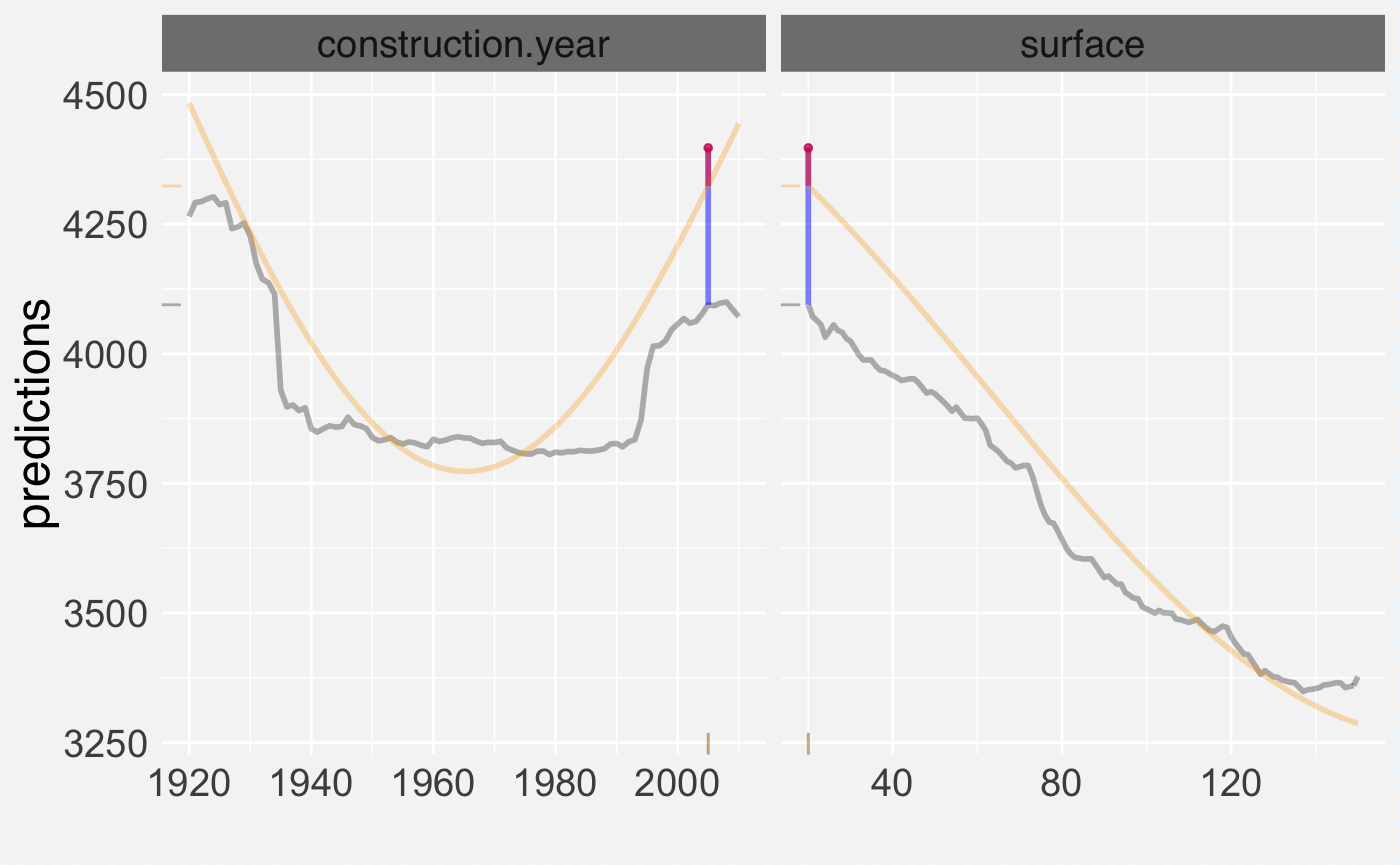
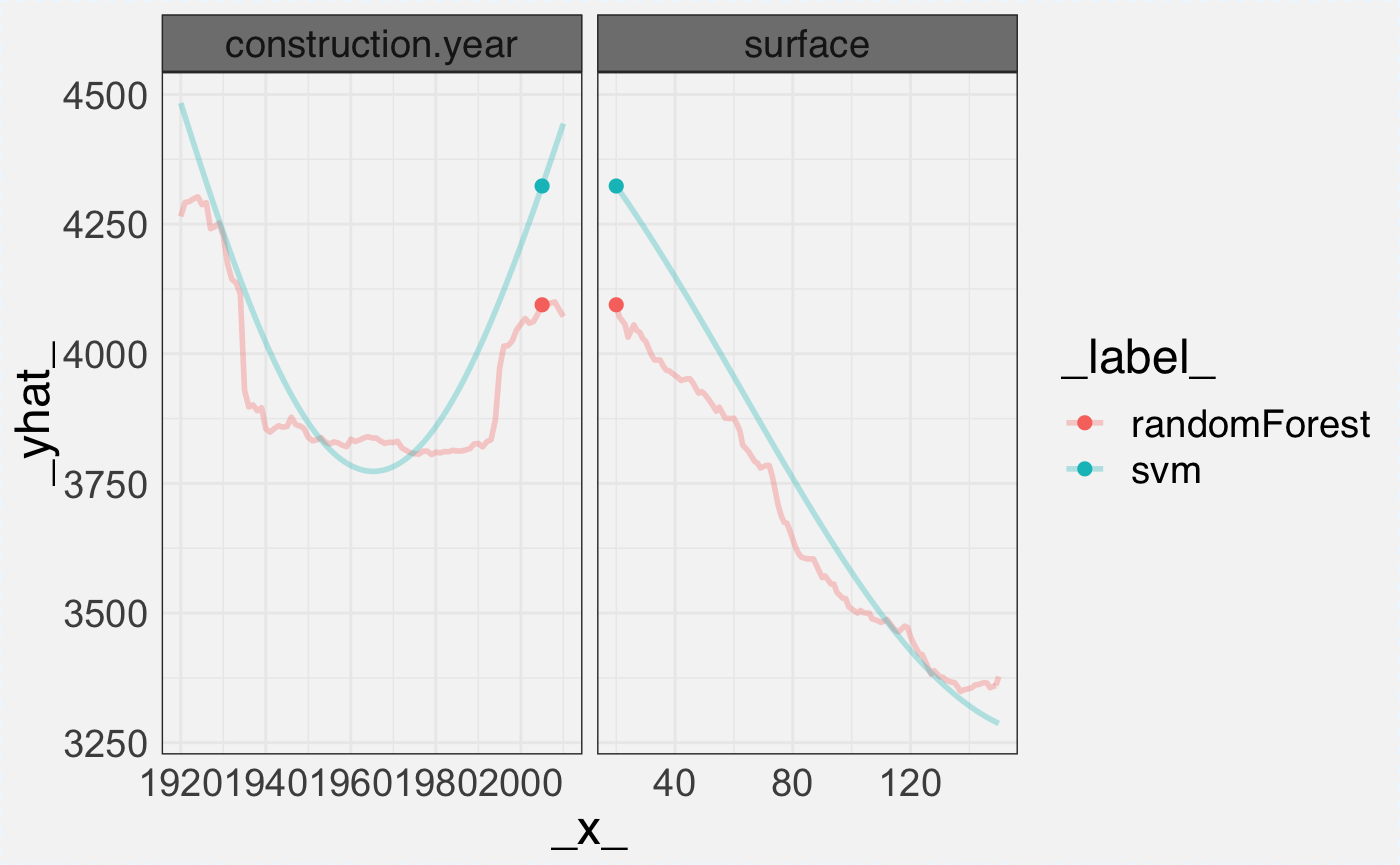
more examples

diff --git a/docs/articles/ceteris_paribus.html b/docs/articles/ceteris_paribus.html
@@ -76,7 +76,7 @@
       <h1>Ceteris Paribus Plots</h1>
                         <h4 class="author">Przemyslaw Biecek</h4>
             
-            <h4 class="date">2018-07-27</h4>
+            <h4 class="date">2018-07-30</h4>
       
       
       <div class="hidden name"><code>ceteris_paribus.Rmd</code></div>
@@ -191,7 +191,7 @@
 <a class="sourceLine" id="cb13-4" data-line-number="4">     <span class="dt">show_observations =</span> <span class="ot">FALSE</span>, <span class="dt">show_rugs =</span> <span class="ot">TRUE</span>,</a>
 <a class="sourceLine" id="cb13-5" data-line-number="5">     <span class="dt">show_residuals =</span> <span class="ot">TRUE</span>, <span class="dt">color_residuals =</span> <span class="st">"red"</span>, <span class="dt">size_residuals =</span> <span class="dv">2</span>,</a>
 <a class="sourceLine" id="cb13-6" data-line-number="6">     <span class="dt">selected_variables =</span> <span class="kw">c</span>(<span class="st">"surface"</span>,<span class="st">"construction.year"</span>)) <span class="op">+</span></a>
-<a class="sourceLine" id="cb13-7" data-line-number="7"><span class="st">  </span><span class="kw">ceteris_paribus_layer</span>(cp_rf_C, </a>
+<a class="sourceLine" id="cb13-7" data-line-number="7"><span class="st">  </span><span class="kw"><a href="../reference/ceteris_paribus_layer.html">ceteris_paribus_layer</a></span>(cp_rf_C, </a>
 <a class="sourceLine" id="cb13-8" data-line-number="8">            <span class="dt">show_observations =</span> <span class="ot">FALSE</span>, <span class="dt">show_rugs =</span> <span class="ot">FALSE</span>,</a>
 <a class="sourceLine" id="cb13-9" data-line-number="9">            <span class="dt">aggregate_profiles =</span> mean, <span class="dt">size =</span> <span class="dv">2</span>, <span class="dt">alpha =</span> <span class="dv">1</span>,</a>
 <a class="sourceLine" id="cb13-10" data-line-number="10">            <span class="dt">selected_variables =</span> <span class="kw">c</span>(<span class="st">"surface"</span>,<span class="st">"construction.year"</span>)) </a></code></pre></div>
@@ -204,7 +204,7 @@
 <a class="sourceLine" id="cb14-5" data-line-number="5">     <span class="dt">show_observations =</span> <span class="ot">FALSE</span>, <span class="dt">show_residuals =</span> <span class="ot">TRUE</span>, </a>
 <a class="sourceLine" id="cb14-6" data-line-number="6">     <span class="dt">color_residuals =</span> <span class="st">"blue"</span>,</a>
 <a class="sourceLine" id="cb14-7" data-line-number="7">     <span class="dt">selected_variables =</span> <span class="kw">c</span>(<span class="st">"surface"</span>,<span class="st">"construction.year"</span>)) <span class="op">+</span></a>
-<a class="sourceLine" id="cb14-8" data-line-number="8"><span class="st">  </span><span class="kw">ceteris_paribus_layer</span>(cp_rf_D, </a>
+<a class="sourceLine" id="cb14-8" data-line-number="8"><span class="st">  </span><span class="kw"><a href="../reference/ceteris_paribus_layer.html">ceteris_paribus_layer</a></span>(cp_rf_D, </a>
 <a class="sourceLine" id="cb14-9" data-line-number="9">          <span class="dt">show_observations =</span> <span class="ot">FALSE</span>, <span class="dt">show_residuals =</span> <span class="ot">TRUE</span>, </a>
 <a class="sourceLine" id="cb14-10" data-line-number="10">          <span class="dt">color =</span> <span class="st">"orange"</span>, <span class="dt">color_residuals =</span> <span class="st">"red"</span>,</a>
 <a class="sourceLine" id="cb14-11" data-line-number="11">          <span class="dt">selected_variables =</span> <span class="kw">c</span>(<span class="st">"surface"</span>,<span class="st">"construction.year"</span>)) </a></code></pre></div>
@@ -224,11 +224,16 @@
 <a class="sourceLine" id="cb15-12" data-line-number="12">     <span class="dt">show_observations =</span> <span class="ot">FALSE</span>, <span class="dt">show_rugs =</span> <span class="ot">TRUE</span>, <span class="dt">show_residuals =</span> <span class="ot">TRUE</span>, </a>
 <a class="sourceLine" id="cb15-13" data-line-number="13">     <span class="dt">color_residuals =</span> <span class="st">"blue"</span>,</a>
 <a class="sourceLine" id="cb15-14" data-line-number="14">     <span class="dt">selected_variables =</span> <span class="kw">c</span>(<span class="st">"surface"</span>,<span class="st">"construction.year"</span>)) <span class="op">+</span></a>
-<a class="sourceLine" id="cb15-15" data-line-number="15"><span class="st">  </span><span class="kw">ceteris_paribus_layer</span>(cp_rf_E, </a>
+<a class="sourceLine" id="cb15-15" data-line-number="15"><span class="st">  </span><span class="kw"><a href="../reference/ceteris_paribus_layer.html">ceteris_paribus_layer</a></span>(cp_rf_E, </a>
 <a class="sourceLine" id="cb15-16" data-line-number="16">          <span class="dt">show_observations =</span> <span class="ot">FALSE</span>, <span class="dt">show_rugs =</span> <span class="ot">TRUE</span>, <span class="dt">show_residuals =</span> <span class="ot">TRUE</span>, </a>
 <a class="sourceLine" id="cb15-17" data-line-number="17">          <span class="dt">color =</span> <span class="st">"orange"</span>, <span class="dt">color_residuals =</span> <span class="st">"red"</span>,</a>
 <a class="sourceLine" id="cb15-18" data-line-number="18">          <span class="dt">selected_variables =</span> <span class="kw">c</span>(<span class="st">"surface"</span>,<span class="st">"construction.year"</span>))</a></code></pre></div>
 <p><img src="ceteris_paribus_files/figure-html/unnamed-chunk-15-1.png" width="700"></p>
+<p>Both models in a single layer</p>
+<div class="sourceCode" id="cb16"><pre class="sourceCode r"><code class="sourceCode r"><a class="sourceLine" id="cb16-1" data-line-number="1"><span class="kw">plot</span>(cp_rf_A, cp_rf_E, </a>
+<a class="sourceLine" id="cb16-2" data-line-number="2">     <span class="dt">color =</span> <span class="st">"_label_"</span>, </a>
+<a class="sourceLine" id="cb16-3" data-line-number="3">    <span class="dt">selected_variables =</span> <span class="kw">c</span>(<span class="st">"surface"</span>,<span class="st">"construction.year"</span>))</a></code></pre></div>
+<p><img src="ceteris_paribus_files/figure-html/unnamed-chunk-16-1.png" width="700"></p>
 </div>
   </div>
 

diff --git a/docs/index.html b/docs/index.html
@@ -153,7 +153,7 @@
   <div class="dev-status">
 <h2>Dev status</h2>
 <ul class="list-unstyled">
-<li><a href="https://travis-ci.org/pbiecek/WhatIfPlots"><img src="https://api.travis-ci.org/pbiecek/ceterisParibus.png" alt="Build Status"></a></li>
+<li><a href="https://travis-ci.org/pbiecek/ceterisParibus"><img src="https://api.travis-ci.org/pbiecek/ceterisParibus.png" alt="Build Status"></a></li>
 </ul>
 </div>
 </div>

diff --git a/docs/articles/coral.html b/docs/articles/coral.html
@@ -76,7 +76,7 @@
       <h1>Local Fit Plots / Wangkardu Explanations</h1>
                         <h4 class="author">Przemyslaw Biecek</h4>
             
-            <h4 class="date">2018-07-27</h4>
+            <h4 class="date">2018-07-30</h4>
       
       
       <div class="hidden name"><code>coral.Rmd</code></div>

diff --git a/docs/articles/whatIf1d.html b/docs/articles/whatIf1d.html
@@ -76,7 +76,7 @@
       <h1>What If Plots</h1>
                         <h4 class="author">Przemyslaw Biecek</h4>
             
-            <h4 class="date">2018-07-27</h4>
+            <h4 class="date">2018-07-30</h4>
       
       
       <div class="hidden name"><code>whatIf1d.Rmd</code></div>
